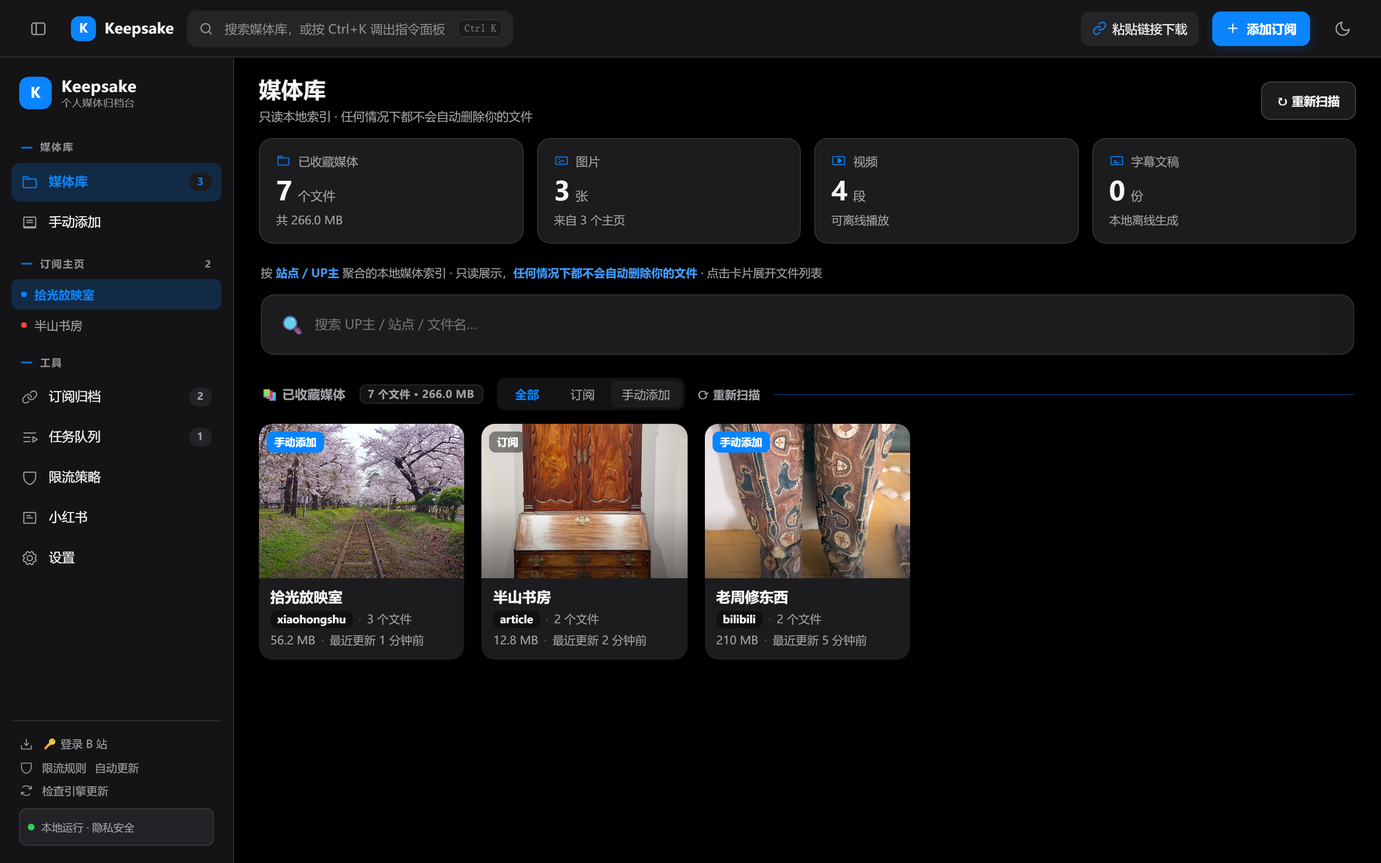
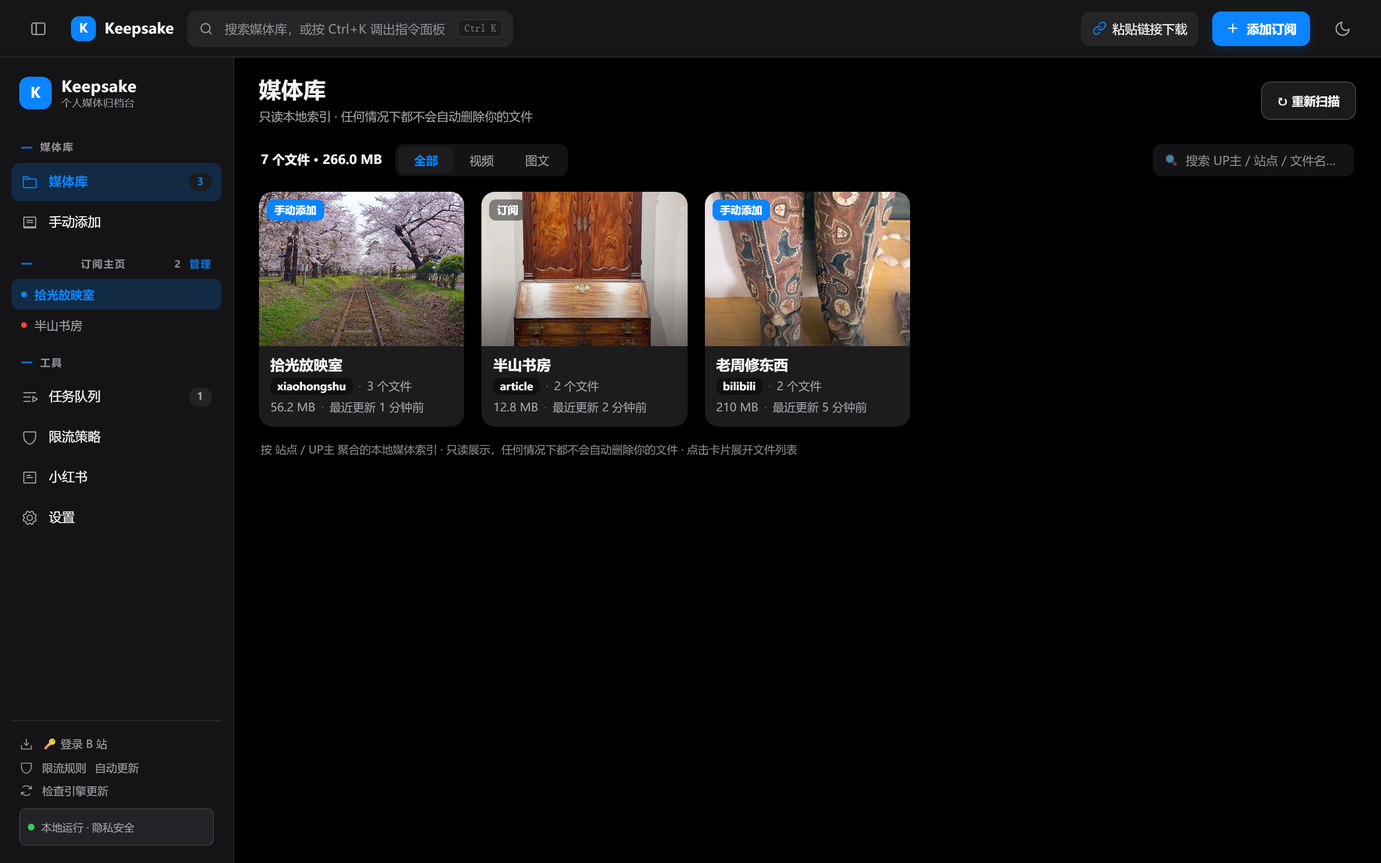
第四批去重复+页头收敛：侧栏零冗余，媒体库页头贴设计图
- 侧栏去重复：删「订阅归档」nav（与订阅主页列表重复），管理入口收进组标题；
  页内来源分段（全部/订阅/手动添加）删除——来源导航完全交给侧栏，
  页内分段改「全部/视频/图文」类型筛选（与设计图一致，与侧栏正交）
- 媒体库页头收敛：删旧 hint 蓝字行+大搜索框+sec-t 三层堆叠，
  改一行工具行（N 个文件·占用 + 类型分段 + 紧凑搜索）；
  诚实声明降为页脚小字；重扫按钮只留顶栏一处
- 媒体库页停渲染 KPI 卡组（与工具行计数重复，设计图主视图亦无 KPI）
- libOriginGo 支持 manual/all 切换+侧栏高亮恢复；手动视图带「✕ 只看手动添加」退出标签
- verify_fused 55 项全绿（新增管理入口/类型分段/退出标签断言）；真机 11/11

diff --git a/app/index.html b/app/index.html
@@ -586,6 +586,20 @@
   .sc-detail summary::before { content:"▸ "; }
   .sc-detail[open] summary::before { content:"▾ "; }
   .sc-detail-body { font-size:12px; color:var(--txt2); line-height:1.95; padding:6px 2px 2px; overflow-wrap:anywhere; font-variant-numeric:tabular-nums; }
+  /* 媒体库工具行（第四批：去重复 + 页头收敛） */
+  .lib-tools { display:flex; align-items:center; gap:14px; flex-wrap:wrap; margin:0 2px 16px; }
+  .lib-sum { font-size:13px; font-weight:600; color:var(--txt); font-variant-numeric:tabular-nums; white-space:nowrap; }
+  .lib-search { margin-left:auto; display:flex; align-items:center; gap:7px; height:34px; padding:0 10px; border-radius:9px; background:var(--panel2); border:1px solid transparent; transition:border-color 180ms,background 180ms; min-width:210px; }
+  .lib-search:focus-within { border-color:var(--acc); background:var(--panel); box-shadow:0 0 0 3px var(--accbg); }
+  .lib-search > span { font-size:12px; opacity:.6; }
+  .lib-search input { border:none; outline:none; background:transparent; font:inherit; font-size:12.5px; color:var(--txt); width:100%; }
+  .lib-search input::placeholder { color:var(--txt3); }
+  .lib-manual-on { display:inline-flex; align-items:center; height:26px; padding:0 10px; border-radius:8px; background:var(--accbg); color:var(--acc); font-size:12px; font-weight:600; cursor:pointer; }
+  .lib-manual-on:hover { filter:brightness(.97); }
+  .lib-footnote { font-size:11.5px; color:var(--txt3); margin:14px 2px 0; line-height:1.8; }
+  .side-cnt-wrap { display:inline-flex; align-items:center; gap:8px; }
+  .side-manage { font-size:10.5px; font-weight:600; color:var(--acc); cursor:pointer; opacity:.85; }
+  .side-manage:hover { opacity:1; text-decoration:underline; }
   @media (max-width:820px) {
     .tb-sec-btn span.label { display:none; }
     .tb-acc-btn span.label { display:none; }
@@ -634,10 +648,9 @@
   <div class="nav-grp">媒体库</div>
   <div class="nav on" data-page="lib" onclick="switchPage('lib')"><svg viewBox="0 0 256 256" fill="currentColor"><path d="M216,72H131.31L104,44.69A15.86,15.86,0,0,0,92.69,40H40A16,16,0,0,0,24,56V200.62A15.4,15.4,0,0,0,39.38,216H216.89A15.13,15.13,0,0,0,232,200.89V88A16,16,0,0,0,216,72ZM40,56H92.69l16,16H40ZM216,200H40V88H216Z"/></svg>媒体库 <span class="cnt" id="l-cnt">0</span></div>
   <div class="nav" data-nav="manual" onclick="libOriginGo('manual', this)" title="单独下载的内容都收在这里，没有订阅归属"><svg viewBox="0 0 256 256" fill="currentColor"><path d="M208,40H48A16,16,0,0,0,32,56v144a16,16,0,0,0,16,16h160a16,16,0,0,0,16-16V56A16,16,0,0,0,208,40Zm0,144H48V56H208ZM176,88H80v16h96Zm0,32H80v16h96Z"/></svg>手动添加</div>
-  <div class="nav-grp" style="justify-content:space-between">订阅主页 <span class="side-cnt" id="sideSubCnt">0</span></div>
+  <div class="nav-grp" style="justify-content:space-between"><span>订阅主页</span><span class="side-cnt-wrap"><span class="side-cnt" id="sideSubCnt">0</span><span class="side-manage" onclick="switchPage('rss')" title="订阅管理：检查频率/回溯/分组/批量操作">管理</span></span></div>
   <div id="sideSubList"></div>
   <div class="nav-grp">工具</div>
-  <div class="nav" data-page="rss" onclick="switchPage('rss')"><svg viewBox="0 0 256 256" fill="currentColor"><path d="M240,88.23a54.43,54.43,0,0,1-16,37L189.25,160a54.27,54.27,0,0,1-38.63,16h-.05A54.63,54.63,0,0,1,96,119.84a8,8,0,0,1,16,.45A38.62,38.62,0,0,0,150.58,160h0a38.39,38.39,0,0,0,27.31-11.31l34.75-34.75a38.63,38.63,0,0,0-54.63-54.63l-11,11A8,8,0,0,1,135.7,59l11-11A54.65,54.65,0,0,1,224,48,54.86,54.86,0,0,1,240,88.23ZM109,185.66l-11,11A38.41,38.41,0,0,1,70.6,208h0a38.63,38.63,0,0,1-27.29-65.94L78,107.31A38.63,38.63,0,0,1,144,135.71a8,8,0,0,0,16,.45A54.86,54.86,0,0,0,144,96a54.65,54.65,0,0,0-77.27,0L32,130.75A54.62,54.62,0,0,0,70.56,224h0a54.28,54.28,0,0,0,38.64-16l11-11A8,8,0,0,0,109,185.66Z"/></svg>订阅归档 <span class="cnt" id="s-cnt">0</span></div>
   <div class="nav" data-page="tasks" onclick="switchPage('tasks')"><svg viewBox="0 0 256 256" fill="currentColor"><path d="M32,64a8,8,0,0,1,8-8H216a8,8,0,0,1,0,16H40A8,8,0,0,1,32,64Zm104,56H40a8,8,0,0,0,0,16h96a8,8,0,0,0,0-16Zm0,64H40a8,8,0,0,0,0,16h96a8,8,0,0,0,0-16Zm112-24a8,8,0,0,1-3.76,6.78l-64,40A8,8,0,0,1,168,200V120a8,8,0,0,1,12.24-6.78l64,40A8,8,0,0,1,248,160Zm-23.09,0L184,134.43v51.14Z"/></svg>任务队列 <span class="cnt" id="q-cnt">0</span></div>
   <div class="nav" data-page="strategy" onclick="switchPage('strategy')"><svg viewBox="0 0 256 256" fill="currentColor"><path d="M208,40H48A16,16,0,0,0,32,56v56c0,52.72,25.52,84.67,46.93,102.19,23.06,18.86,46,25.27,47,25.53a8,8,0,0,0,4.2,0c1-.26,23.91-6.67,47-25.53C198.48,196.67,224,164.72,224,112V56A16,16,0,0,0,208,40Zm0,72c0,37.07-13.66,67.16-40.6,89.42A129.3,129.3,0,0,1,128,223.62a128.25,128.25,0,0,1-38.92-21.81C61.82,179.51,48,149.3,48,112l0-56,160,0Z"/></svg>限流策略</div>
   <!-- 视频号入口暂时下架（2026-11-19 拍板）：受控窗/IPC 保留，恢复时解开本行
@@ -729,22 +742,19 @@
 
   <!-- 媒体库页（默认页：设计图的主视图） -->
   <div class="page on" id="page-lib">
-    <div class="hint" style="margin:0 2px 12px">按 <b>站点 / UP主</b> 聚合的本地媒体索引 · 只读展示，<b>任何情况下都不会自动删除你的文件</b> · 点击卡片展开文件列表</div>
-    <div class="paste-box" style="margin:0 2px 12px">
-      <span>🔍</span>
-      <input id="libKw" placeholder="搜索 UP主 / 站点 / 文件名…" style="flex:1;border:none;outline:none;font:inherit;font-size:13.5px;background:transparent;color:var(--txt)" oninput="_sideSubActive=null;if(typeof renderSideSubs==='function')renderSideSubs();setLibKw(this.value)">
-      <span class="act" id="libKwClear" style="display:none;cursor:pointer;font-size:12px" onclick="setLibKw('');$('libKw').value=''">✕ 清除</span>
-    </div>
-    <div class="sec-t" style="display:flex;align-items:center;gap:14px;flex-wrap:wrap">📚 已收藏媒体 <span class="cnt" id="l-sum">0 个文件</span>
-      <div class="libseg" id="libOriginSeg" role="tablist" aria-label="按来源筛选">
+    <div class="lib-tools">
+      <span class="lib-sum" id="l-sum">0 个文件</span>
+      <div class="libseg" id="libKindSeg" role="tablist" aria-label="按类型筛选">
         <span class="libseg-thumb" id="libSegThumb"></span>
-        <button class="libseg-item active" data-origin="all" role="tab" aria-selected="true">全部</button>
-        <button class="libseg-item" data-origin="sub" role="tab" aria-selected="false">订阅</button>
-        <button class="libseg-item" data-origin="manual" role="tab" aria-selected="false">手动添加</button>
+        <button class="libseg-item active" data-kind="all" role="tab" aria-selected="true">全部</button>
+        <button class="libseg-item" data-kind="video" role="tab" aria-selected="false">视频</button>
+        <button class="libseg-item" data-kind="image" role="tab" aria-selected="false">图文</button>
       </div>
-      <span class="act" style="cursor:pointer;font-size:12px;margin-left:auto" onclick="loadLibrary(true)">⟳ 重新扫描</span>
+      <span class="lib-manual-on" id="libManualClear" style="display:none" onclick="libOriginGo('all')" title="退出手动添加视图">✕ 只看手动添加</span>
+      <div class="lib-search"><span>🔍</span><input id="libKw" placeholder="搜索 UP主 / 站点 / 文件名…" oninput="_sideSubActive=null;if(typeof renderSideSubs==='function')renderSideSubs();setLibKw(this.value)"><span class="act" id="libKwClear" style="display:none;cursor:pointer" onclick="setLibKw('');$('libKw').value=''">✕</span></div>
     </div>
     <div id="libList"><div class="empty">还没有下载任何媒体——用工具栏「粘贴链接下载」单独收一条，或添加订阅自动追更</div></div>
+    <div class="lib-footnote">按 站点 / UP主 聚合的本地媒体索引 · 只读展示，任何情况下都不会自动删除你的文件 · 点击卡片展开文件列表</div>
   </div>
 
   <!-- 策略页 -->
@@ -1795,18 +1805,8 @@ function renderP2() {
       p2Kpi('folder','已归档帖子', ss.reduce((a,s)=>a+(parseInt(s.knownCount,10)||0),0), '条', '本机留存') +
       p2Kpi('down','最近失败', ss.filter(s=>s.lastError && (!s.lastCheck || (s.lastFailAt||0)>(s.lastCheck||0))).length, '条', '退避后自动重试') +
       p2Kpi('warn','删帖预警', gone, '条', '本地文件仍在', gone ? 'err' : '') + '</div>';
-  } else if (page === 'lib') {
-    let g = [], tf = 0, ts = '';
-    try { g = Array.isArray(libData && libData.groups) ? libData.groups : []; tf = libData && libData.totalFiles || 0; ts = libData && libData.totalSize || ''; } catch (e) {}
-    // totalSize 真机是字节数（library.js:171），需格式化；已是字符串（如验证 mock）则原样用
-    if (typeof ts === 'number' && ts > 0) { try { ts = fmtBytes(ts); } catch (e) { ts = ''; } }
-    const vids = g.reduce((a,x)=>a+(parseInt(x.videoCount,10)||0),0), imgs = g.reduce((a,x)=>a+(parseInt(x.imageCount,10)||0),0);
-    html = '<div class="kpi2">' +
-      p2Kpi('folder','已收藏媒体', tf || g.length, '个文件', ts ? '共 ' + ts : '本机索引') +
-      p2Kpi('image','图片', imgs, '张', '来自 ' + g.length + ' 个主页') +
-      p2Kpi('video','视频', vids, '段', '可离线播放') +
-      p2Kpi('subs','字幕文稿', (function(){ let n=0; try{ g.forEach(x=>(x.files||[]).forEach(f=>{ if(f.hasText) n++; })); }catch(e){} return n; })(), '份', '本地离线生成') + '</div>';
   }
+  // lib 页不渲染 KPI 卡组：已收藏数/占用已在页内工具行（l-sum），重复信息只添乱（设计图主视图也无 KPI）
   host.innerHTML = html;
   // 列表表格化：给任务页两个列表加容器 class（纯 CSS 生效，不改内部 DOM）
   ['queue','doneList'].forEach(id => { const el = $(id); if (el) el.classList.add('tblify'); });
@@ -2897,8 +2897,9 @@ function setLibKw(v) {
 function localImgUrl(p) {
   try { return encodeURI('file:///' + String(p).replace(/\\/g, '/')).replace(/#/g, '%23'); } catch (e) { return ''; }
 }
-// 来源分段筛选：all / sub / manual（手动添加视图 = 缺口①）
-let libOriginFilter = 'all';
+// 来源视图筛选：all / manual（手动添加视图 = 缺口①，入口在侧栏；页内另有 libKind 类型分段）
+let libOriginFilter = 'all';   // 来源视图：all / manual（只由侧栏「手动添加」入口驱动）
+let libKind = 'all';           // 页内类型分段：all / video / image（与侧栏来源导航正交，不重复）
 function renderLibrary() {
   const el = $('libList');
   if (!libData) return;
@@ -2907,22 +2908,24 @@ function renderLibrary() {
   let groups = kw ? libData.groups.filter(g =>
     g.uploader.toLowerCase().includes(kw) || g.site.toLowerCase().includes(kw) ||
     g.files.some(f => f.name.toLowerCase().includes(kw)) || g.files.some(f => txtHit(f))) : libData.groups.slice();
-  // 手动添加视图：文件带来源索引且非订阅才算；老文件无索引记录不冒充手动（诚实边界）
+  // 手动添加视图（侧栏入口）：文件带来源索引且非订阅才算；老文件无索引记录不冒充手动（诚实边界）
   if (libOriginFilter === 'manual') groups = groups.filter(g => g.files.some(f => f.src && f.src.via && f.src.via !== 'sub'));
-  else if (libOriginFilter === 'sub') groups = groups.filter(g => g.files.some(f => f.src && f.src.via === 'sub'));
-  $('l-cnt').textContent = (kw || libOriginFilter !== 'all') ? groups.length + '/' + libData.groups.length : libData.groups.length;
+  // 页内类型分段（全部/视频/图文）
+  if (libKind === 'video') groups = groups.filter(g => g.videoCount > 0);
+  else if (libKind === 'image') groups = groups.filter(g => g.imageCount > 0 || (g.articleCount || 0) > 0);
+  $('l-cnt').textContent = (kw || libKind !== 'all' || libOriginFilter !== 'all') ? groups.length + '/' + libData.groups.length : libData.groups.length;
   $('l-sum').textContent = libData.totalFiles + ' 个文件 · ' + fmtBytes(libData.totalSize);
   if (!libData.groups.length) {
-    el.innerHTML = '<div class="empty">还没有下载任何媒体——去任务队列贴个链接吧</div>';
+    el.innerHTML = '<div class="empty">还没有下载任何媒体——用工具栏「粘贴链接下载」单独收一条，或添加订阅自动追更</div>';
     return;
   }
   if (!groups.length) {
-    const emptyByView = {
-      manual: '还没有手动添加的内容——用工具栏「粘贴链接下载」单独收一条试试',
-      sub: '还没有订阅归档的内容——订阅后更新的内容会带「订阅」角标',
-      all: '没有匹配「' + esc(libKw) + '」的媒体'
-    };
-    el.innerHTML = '<div class="empty">' + emptyByView[libOriginFilter] + '</div>';
+    let msg;
+    if (libOriginFilter === 'manual') msg = '还没有手动添加的内容——用工具栏「粘贴链接下载」单独收一条试试';
+    else if (libKind === 'video') msg = '没有含视频的主页' + (kw ? '（搜索「' + esc(libKw) + '」无命中）' : '');
+    else if (libKind === 'image') msg = '没有含图文的主页' + (kw ? '（搜索「' + esc(libKw) + '」无命中）' : '');
+    else msg = '没有匹配「' + esc(libKw) + '」的媒体';
+    el.innerHTML = '<div class="empty">' + msg + '</div>';
     return;
   }
   // 大库提示——文件多时引导用搜索定位，避免用户翻几千个文件的卡片
@@ -2979,6 +2982,7 @@ function renderLibrary() {
     return card + detail;
   }).join('');
   el.innerHTML = bigNote + '<div class="libgrid">' + cards + '</div>';
+  const mc = $('libManualClear'); if (mc) mc.style.display = libOriginFilter === 'manual' ? '' : 'none';
   try { if (typeof renderP2 === 'function') renderP2(); } catch (e) {}   // 期2：媒体库数据到位后刷 KPI
 }
 
@@ -3636,33 +3640,32 @@ window.addEventListener('keydown', e => {
   const ml = document.querySelector('.modal-layer.open');
   if (ml) { closeLayerModal(ml); e.stopImmediatePropagation(); }
 }, true);
-// 媒体库来源分段控件（全部 / 订阅 / 手动添加视图）
+// 媒体库类型分段（全部 / 视频 / 图文）——来源导航完全交给侧栏，页内不重复
 function moveLibSegThumb() {
-  const act = document.querySelector('#libOriginSeg .libseg-item.active');
+  const act = document.querySelector('#libKindSeg .libseg-item.active');
   const th = $('libSegThumb');
   if (!act || !th) return;
   th.style.width = act.offsetWidth + 'px';
   th.style.transform = 'translateX(' + (act.offsetLeft - 3) + 'px)';
 }
-$('libOriginSeg').addEventListener('click', e => {
+function syncKindSeg() {
+  document.querySelectorAll('#libKindSeg .libseg-item').forEach(x => { const on = x.dataset.kind === libKind; x.classList.toggle('active', on); x.setAttribute('aria-selected', on); });
+  moveLibSegThumb();
+}
+$('libKindSeg').addEventListener('click', e => {
   const b = e.target.closest('.libseg-item');
   if (!b) return;
-  libOriginFilter = b.dataset.origin;
-  _sideSubActive = null;
-  if (typeof renderSideSubs === 'function') renderSideSubs();
-  document.querySelectorAll('.nav').forEach(n => { if (n.dataset.nav === 'manual') n.classList.remove('on'); });
-  document.querySelectorAll('#libOriginSeg .libseg-item').forEach(x => { const on = x === b; x.classList.toggle('active', on); x.setAttribute('aria-selected', on); });
-  moveLibSegThumb();
+  libKind = b.dataset.kind;
+  syncKindSeg();
   try { renderLibrary(); } catch (err) {}
 });
 // ===== 第三阶段：侧栏设计图化 —— 手动添加入口 + 订阅主页动态列表 =====
 let _sideSubActive = null;
 function libOriginGo(origin, el) {
   switchPage('lib');
-  if (el) { document.querySelectorAll('.nav').forEach(n => n.classList.remove('on')); el.classList.add('on'); }
-  libOriginFilter = origin;
-  document.querySelectorAll('#libOriginSeg .libseg-item').forEach(x => { const on = x.dataset.origin === origin; x.classList.toggle('active', on); x.setAttribute('aria-selected', on); });
-  moveLibSegThumb();
+  libOriginFilter = origin === 'manual' ? 'manual' : 'all';
+  // 侧栏高亮：手动视图点亮手动入口，否则回媒体库 nav
+  document.querySelectorAll('.sidebar .nav').forEach(n => n.classList.toggle('on', origin === 'manual' ? n.dataset.nav === 'manual' : n.dataset.page === 'lib'));
   try { renderLibrary(); } catch (err) {}
 }
 function renderSideSubs() {
@@ -3681,11 +3684,9 @@ function sideSubGo(id) {
   _sideSubActive = id;
   renderSideSubs();
   switchPage('lib');
-  // 来源保持「全部」：老文件没有来源索引，切到「订阅」视图会把 TA 的老归档误过滤成空；
-  // 按订阅名过滤卡墙（库分组按 UP主/站点名聚合，订阅名即其名）已足够精确定位 TA 的归档
+  // 按订阅名过滤卡墙（库分组按 UP主/站点名聚合，订阅名即其名）；
+  // 来源保持全部——老文件无来源索引，切订阅来源视图会把老归档误过滤成空
   libOriginFilter = 'all';
-  document.querySelectorAll('#libOriginSeg .libseg-item').forEach(x => { const on = x.dataset.origin === 'all'; x.classList.toggle('active', on); x.setAttribute('aria-selected', on); });
-  moveLibSegThumb();
   const box = $('libKw'); if (box) box.value = s.name;
   setLibKw(s.name);
   try { renderLibrary(); } catch (err) {}

diff --git a/_tools/verify_fused.js b/_tools/verify_fused.js
@@ -92,7 +92,7 @@ document.addEventListener('DOMContentLoaded', () => {
     app: !!document.getElementById('app')
   }));
   ok('工具栏（应用名+搜索触发框+主题按钮+侧栏开关）', () => assert(base.toolbar && base.brand && base.search && base.themeBtn && base.sideToggle, JSON.stringify(base)));
-  ok('毛玻璃侧栏在 workspace 内，五页导航 + 三分组（媒体库/订阅主页/工具）', () => assert(base.sidebar && base.navs.length === 5 && base.grp === 3 && base.navs[0] === 'lib', JSON.stringify(base.navs)));
+  ok('毛玻璃侧栏在 workspace 内，四页导航 + 三分组（订阅归档不重复，管理入口收进订阅主页组）', () => assert(base.sidebar && base.navs.length === 4 && base.grp === 3 && base.navs[0] === 'lib' && !base.navs.includes('rss'), JSON.stringify(base.navs)));
   ok('侧栏底部状态区（登录/规则/引擎更新入口）', () => assert(base.foot, 'no side-foot'));
   ok('⌘K 面板容器在位', () => assert(base.cmdk, 'no cmdk'));
   ok('详情抽屉在位', () => assert(base.drawer, 'no drawer'));
@@ -101,6 +101,8 @@ document.addEventListener('DOMContentLoaded', () => {
   ok('第三阶段：默认页 = 媒体库（启动第一眼）', () => assert(onPageLib));
   const sideShell = await page.evaluate(() => !!document.querySelector('.sidebar .nav[data-nav="manual"]') && !!document.getElementById('sideSubList') && !!document.getElementById('sideSubCnt'));
   ok('第三阶段：侧栏手动添加入口 + 订阅列表容器在位', () => assert(sideShell));
+  const manageLink = await page.evaluate(() => !!document.querySelector('.side-manage') && ![...document.querySelectorAll('.sidebar .nav')].some(n => n.textContent.includes('订阅归档')));
+  ok('第四批：订阅管理入口在订阅主页组标题，工具组不再重复订阅归档 nav', () => assert(manageLink));
 
   console.log('\n=== B. backdrop-filter 只在 4 个固定面 ===');
   const bf = await page.evaluate(() => {
@@ -136,7 +138,7 @@ document.addEventListener('DOMContentLoaded', () => {
     cards: document.querySelectorAll('#libList .lcard').length,
     grid: !!document.querySelector('#libList .libgrid'),
     covers: document.querySelectorAll('#libList .lthumb').length,
-    seg: document.querySelectorAll('#libOriginSeg .libseg-item').length
+    seg: document.querySelectorAll('#libKindSeg .libseg-item').length
   }));
   ok('媒体库卡墙渲染（2 组卡 + 封面 + 分段控件）', () => assert(libRendered.cards === 2 && libRendered.grid && libRendered.covers === 2 && libRendered.seg === 3, JSON.stringify(libRendered)));
   const rssRendered = await page.evaluate(() => ({
@@ -151,10 +153,10 @@ document.addEventListener('DOMContentLoaded', () => {
   await page.evaluate(() => document.querySelector('.sidebar .nav[data-nav="manual"]').click());
   await page.waitForTimeout(260);
   const manualView = await page.evaluate(() => ({
-    seg: document.querySelector('#libOriginSeg .libseg-item.active').dataset.origin,
-    navOn: document.querySelector('.sidebar .nav.on[data-nav]') ? 'manual' : 'page'
+    manual: document.querySelector('.sidebar .nav.on[data-nav]') ? 'manual' : 'page',
+    clear: document.getElementById('libManualClear').style.display !== 'none'
   }));
-  ok('侧栏「手动添加」→ 媒体库手动视图 + 入口高亮', () => assert(manualView.seg === 'manual' && manualView.navOn === 'manual', JSON.stringify(manualView)));
+  ok('侧栏「手动添加」→ 手动视图 + 入口高亮 + 退出标签', () => assert(manualView.manual === 'manual' && manualView.clear, JSON.stringify(manualView)));
   await page.evaluate(() => { libOriginFilter = 'all'; document.querySelectorAll('#libOriginSeg .libseg-item').forEach(x => { const on = x.dataset.origin === 'all'; x.classList.toggle('active', on); x.setAttribute('aria-selected', on); }); });
 
   console.log('\n=== D. ⌘K 面板 ===');
@@ -320,21 +322,22 @@ document.addEventListener('DOMContentLoaded', () => {
   await page.waitForTimeout(400);
   st = await page.evaluate(() => ({ open: document.getElementById('downloadLayer').classList.contains('open'), page: (document.querySelector('.page.on') || {}).id, urls: document.getElementById('urls').value }));
   ok('下载模态提交：关模态 + 切任务页 + addUrls 已消费链接（#urls 清空）', () => assert(!st.open && st.page === 'page-tasks' && st.urls === '', JSON.stringify(st)));
-  // 手动保存视图（缺口①）：manual 过滤含单条来源的组
+  // 手动添加视图（缺口①）：侧栏入口 → manual 过滤含单条来源的组
   await page.evaluate(() => { window.__lib.groups[0].files[1].src = { via: 'single', url: 'https://e.com/b' }; document.getElementById('libKw').value = ''; setLibKw(''); window.switchPage('lib'); });
   await page.waitForTimeout(200);
-  await page.evaluate(() => document.querySelector('#libOriginSeg .libseg-item[data-origin="manual"]').click());
+  await page.evaluate(() => libOriginGo('manual'));
   await page.waitForTimeout(250);
-  st = await page.evaluate(() => ({ cards: document.querySelectorAll('#libList .lcard').length, pills: document.querySelectorAll('#libList .lpill.manual').length }));
-  ok('手动保存视图：过滤出含手动来源的组 + 蓝色手动角标', () => assert(st.cards === 1 && st.pills >= 1, JSON.stringify(st)));
-  await page.evaluate(() => document.querySelector('#libOriginSeg .libseg-item[data-origin="sub"]').click());
+  st = await page.evaluate(() => ({ cards: document.querySelectorAll('#libList .lcard').length, pills: document.querySelectorAll('#libList .lpill.manual').length, clear: document.getElementById('libManualClear').style.display !== 'none' }));
+  ok('手动添加视图：侧栏入口过滤出含手动来源的组 + 蓝色角标 + 退出标签', () => assert(st.cards === 1 && st.pills >= 1 && st.clear, JSON.stringify(st)));
+  // 页内类型分段：视频/图文
+  await page.evaluate(() => document.querySelector('#libKindSeg .libseg-item[data-kind="video"]').click());
   await page.waitForTimeout(250);
-  st = await page.evaluate(() => ({ cards: document.querySelectorAll('#libList .lcard').length, empty: document.getElementById('libList').textContent }));
-  ok('订阅视图：0 组且空态文案正确（mock 无订阅来源）', () => assert(st.cards === 0 && st.empty.includes('还没有订阅归档'), JSON.stringify(st.empty.slice(0, 40))));
-  await page.evaluate(() => document.querySelector('#libOriginSeg .libseg-item[data-origin="all"]').click());
-  await page.waitForTimeout(200);
   st = await page.evaluate(() => document.querySelectorAll('#libList .lcard').length);
-  ok('全部视图：回到 2 组卡', () => assert(st === 2, 'cards=' + st));
+  ok('视频分段：manual×video 交集仍含皮带组（mock g1 有视频）', () => assert(st === 1, 'cards=' + st));
+  await page.evaluate(() => { libOriginGo('all'); syncKindSeg(); });
+  await page.waitForTimeout(250);
+  st = await page.evaluate(() => ({ cards: document.querySelectorAll('#libList .lcard').length, clear: document.getElementById('libManualClear').style.display === 'none' }));
+  ok('退出手动视图：回全部 2 组卡 + 退出标签隐藏', () => assert(st.cards === 2 && st.clear, JSON.stringify(st)));
 
   console.log('\n=== G. 触控目标 ===');
   await page.setViewportSize({ width: 1440, height: 900 });

diff --git a/_tools/shot_phase3.js b/_tools/shot_phase3.js
@@ -56,8 +56,9 @@ fs.mkdirSync(OUT, { recursive: true });
   await page.addInitScript(MOCK);
   await page.goto(url, { waitUntil: 'domcontentloaded' });
   await page.waitForTimeout(1200);
-  // 1 启动第一眼：默认媒体库 + 侧栏订阅列表（不点任何东西直接截）
-  await page.waitForTimeout(400);
+  // 1 启动第一眼：默认媒体库 + 侧栏订阅列表（先触发订阅加载，模拟真实应用的 onSubs 推送时序）
+  await page.evaluate(() => { try { loadSubs(); } catch (e) {} });
+  await page.waitForTimeout(500);
   await page.screenshot({ path: path.join(OUT, 'vf3-home-default.png') });
   // 2 侧栏点订阅 → 媒体库按该订阅过滤
   await page.evaluate(() => sideSubGo('s1'));
@@ -76,7 +77,7 @@ fs.mkdirSync(OUT, { recursive: true });
   await page.waitForTimeout(600);
   await page.screenshot({ path: path.join(OUT, 'vf3-manual.png') });
   // 6 深色默认页
-  await page.evaluate(() => { document.documentElement.dataset.theme = 'dark'; window.switchPage('lib'); libOriginFilter = 'all'; document.querySelectorAll('#libOriginSeg .libseg-item').forEach(x => { const on = x.dataset.origin === 'all'; x.classList.toggle('active', on); x.setAttribute('aria-selected', on); }); renderLibrary(); });
+  await page.evaluate(() => { document.documentElement.dataset.theme = 'dark'; window.switchPage('lib'); libOriginFilter = 'all'; syncKindSeg(); renderLibrary(); });
   await page.waitForTimeout(600);
   await page.screenshot({ path: path.join(OUT, 'vf3-dark.png') });
   await browser.close();

diff --git a/_tools/verify_fused_electron.js b/_tools/verify_fused_electron.js
@@ -49,7 +49,7 @@ function assert(c, m) { if (!c) throw new Error(m || 'assertion failed'); }
     drawer: !!document.getElementById('libDrawer'),
     ipc: typeof window.keepsake === 'object' && typeof window.keepsake.snapshot === 'function' && typeof window.keepsake.subsList === 'function'
   }));
-  ok('骨架四件套 + 真实 preload IPC 桥', () => assert(st.app && st.toolbar && st.sidebar && st.navs === 5 && st.cmdk && st.drawer && st.ipc, JSON.stringify(st)));
+  ok('骨架四件套 + 真实 preload IPC 桥', () => assert(st.app && st.toolbar && st.sidebar && st.navs === 4 && st.cmdk && st.drawer && st.ipc, JSON.stringify(st)));
 
   console.log('\n=== B. Ctrl+K / > 指令 / 粘贴框（真实渲染层）===');
   await win.keyboard.press('Control+k');
